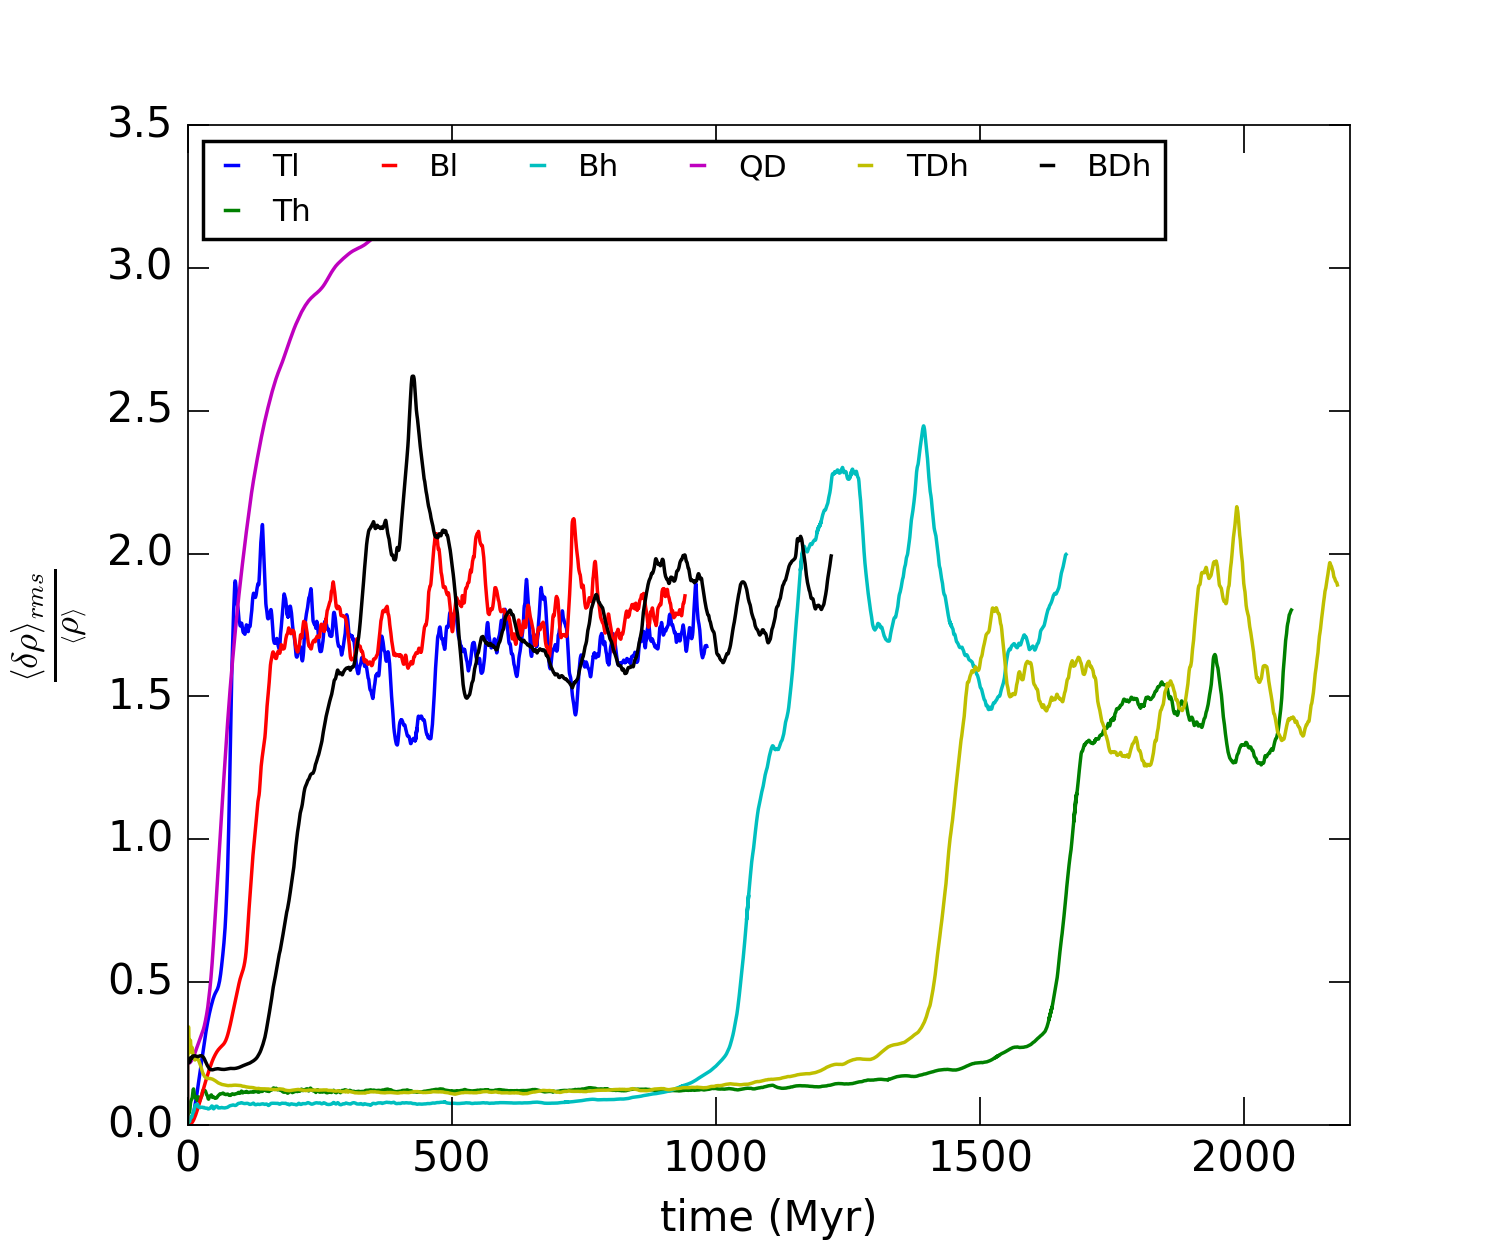
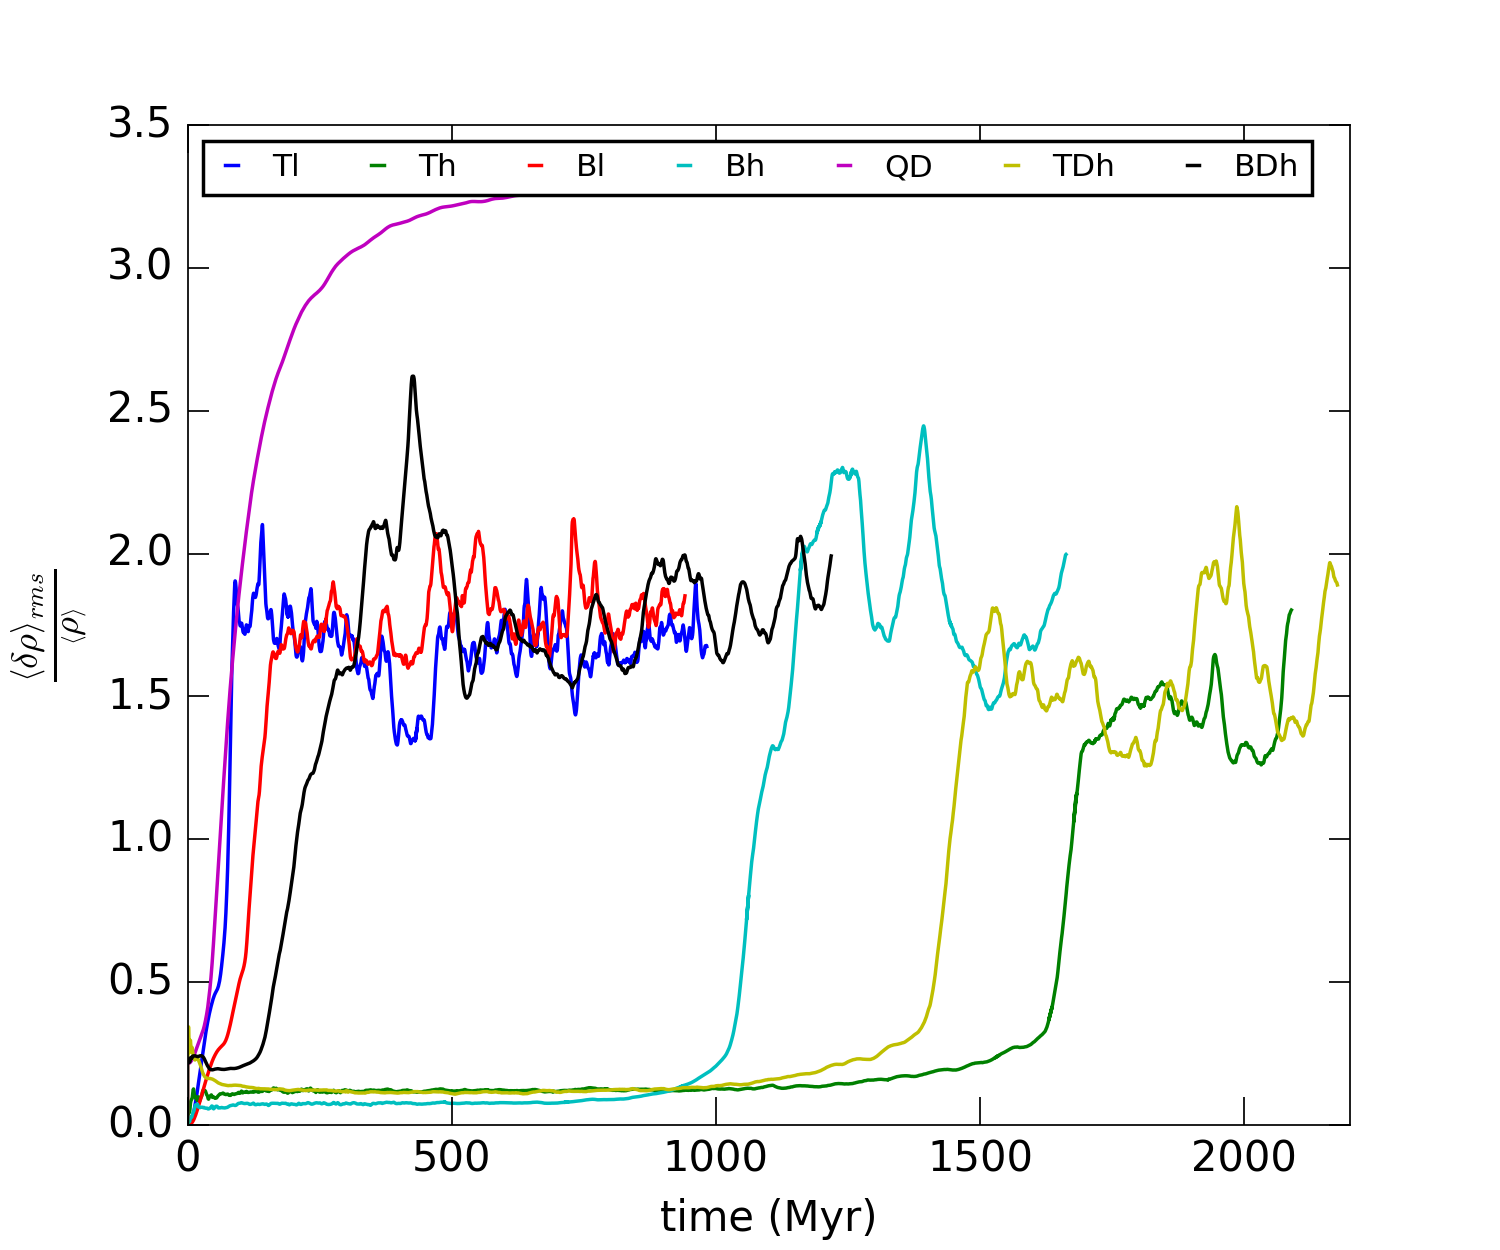
Minor changes in plots

diff --git a/mach_temp_dist/mach-temp-dist.py b/mach_temp_dist/mach-temp-dist.py
@@ -67,7 +67,7 @@ ax1.set_ylabel(r'Volume fraction')
 box = ax1.get_position()
 ax1.set_position([box.x0, box.y0, box.width, box.height])
 # Put a legend to the bottom of the current axis
-ax1.legend(loc='lower center', ncol=2)
+ax1.legend(loc='lower center', ncol=3)
 #plt.savefig('mach-dist.png',dpi=250)
 
 for i1 in xrange(0, step_size.size):
@@ -87,7 +87,7 @@ ax2.set_ylabel(r'Volume fraction')
 box = ax2.get_position()
 ax2.set_position([box.x0, box.y0, box.width, box.height])
 # Put a legend to the bottom of the current axis
-ax2.legend(loc='lower center', ncol=2)
+ax2.legend(loc='lower center', ncol=3)
 #plt.savefig('temp-dist.png',dpi=250)
 
 #plt.savefig('mach-temp-dist-B.png',dpi=250, mode="expand", borderaxespad=0.)

diff --git a/del-rho-plots/density_perturb.py b/del-rho-plots/density_perturb.py
@@ -42,5 +42,5 @@ ax.set_xlim(0,2200)
 box = ax.get_position()
 ax.set_position([box.x0, box.y0, box.width, box.height])
 # Put a legend to the bottom of the current axis
-ax.legend(loc='upper left', bbox_to_anchor=(0.0, 1.0), ncol=6)
+ax.legend(loc='upper left', bbox_to_anchor=(0.0, 1.0), ncol=7)
 plt.savefig('del-rho-time.png',dpi=250)
